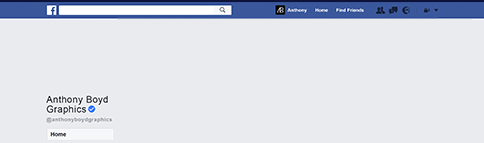
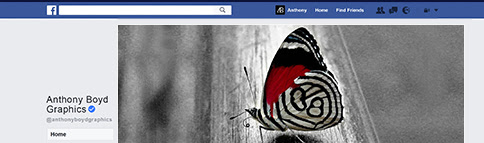
Push

diff --git a/style.css b/style.css
@@ -88,7 +88,7 @@ h1.f_brand_name {
 /*css page 3 start*/
 .p3_primary{
     padding-left: 85px !important;
-    padding-top: 25px;
+    padding-top: 80px;
 }
 .p3_silder_heading {
     font-size: 16px;
@@ -112,8 +112,8 @@ h1.f_brand_name {
 }
 .p3_logo img {
     margin-top: 10px;
-    max-width: 111px;
-    max-height: 80px;
+    max-width: 160px;
+    max-height: 115px;
 }
 .p3_logo {
     text-align: center;
@@ -451,8 +451,8 @@ p.numeric_letter {
     text-align: center;
 }
 .logo_nav img {
-    max-width: 56px;
-    max-height: 40px;
+    max-width: 95px;
+    max-height: 68px;
     display: flex;
     flex-flow: column;
     justify-content: center;
@@ -528,8 +528,8 @@ img.logo_footer {
     font-size: 15px;
 }
 .p16_profile_image img {
-    max-width: 94px;
-    max-height: 68px;
+    max-width: 150px;
+    max-height: 108px;
     display: flex;
     flex-flow: column;
     justify-content: center;
@@ -571,7 +571,6 @@ img.logo_footer {
 
 /*css page 18 start*/
 .p18_silder_heading {
-    padding-top: 70px;
     padding-left: 25px;
     font-size: 15px;
     font-weight: 600;
@@ -580,6 +579,7 @@ img.logo_footer {
 .p18_cover_silder {
     position: relative;
     width: 93%;
+    margin-bottom: 30px;
     float: left;
     padding-left: 25px;
     padding-right: 25px;
@@ -603,8 +603,8 @@ img.logo_footer {
     height: auto;
 }
 .p18_instagram .p18_instagram_bg {
-    width: 100%;
-    max-height: 350px;
+    width: auto;
+    height: 450px;
 }
 .p18_facebook_logo {
     background: #fff !important;
@@ -621,8 +621,8 @@ img.logo_footer {
     align-items: center;
 }
 .p18_facebook_logo img{
-    max-width: 50px;
-    max-height: 36px;
+    max-width: 80px;
+    max-height: 64px;
     display: flex;
     flex-flow: column;
     justify-content: center;
@@ -631,6 +631,7 @@ img.logo_footer {
 
 .p18_facebook_cover_logo {
     position: absolute;
+    background: transparent !important;
     top: 13%;
     height: 168px;
     width: 498px;
@@ -643,14 +644,16 @@ img.logo_footer {
     align-items: center;
 }
 .p18_facebook_cover_logo img {
+    display: none;
     max-width: 125px;
     max-height: 90px;
-    display: flex;
+    /* display: flex; */
     flex-flow: column;
     justify-content: center;
     align-items: center;
 }
 .p18_twitter_logo {
+    background: transparent !important;
     position: absolute;
     top: 9%;
     height: 170px;
@@ -663,9 +666,10 @@ img.logo_footer {
     align-items: center;
 }
 .p18_twitter_logo img {
+    display:  none;
     max-width: 140px;
     max-height: 101px;
-    display: flex;
+    /* display: flex; */
     flex-flow: column;
     justify-content: center;
     align-items: center;
@@ -686,20 +690,20 @@ img.logo_footer {
     align-items: center;
 }
 .p18_twitter_dp_logo img {
-    max-width: 56px;
-    max-height: 40px;
+    max-width: 69px;
+    max-height: 54px;
     display: flex;
     flex-flow: column;
     justify-content: center;
     align-items: center;
 }
 .p18_instagram_logo {
-    background: #fff !important;
+    background: transparent !important;
     position: absolute;
-    width: 150px;
-    height: 150px;
-    top: 40%;
-    left: 7%;
+    width: 110px;
+    height: 110px;
+    top: 15%;
+    left: 3%;
     text-align: center;
     border-radius: 50%;
     display: flex;
@@ -708,8 +712,8 @@ img.logo_footer {
     align-items: center;
 }
 .p18_instagram_logo img {
-    max-width: 110px;
-    max-height: 79px;
+    max-width: 100px;
+    max-height: 72px;
     display: flex;
     flex-flow: column;
     justify-content: center;
@@ -1002,10 +1006,10 @@ img.logo_footer {
     height: auto;
 }
 .tshirt_logo {
-    top: 30%;
+    top: 26%;
     position: absolute;
     text-align: center;
-    height: 150px;
+    height: 120px;
     width: 150px;
     left: 39%;
     display: flex;
@@ -1015,8 +1019,8 @@ img.logo_footer {
     right: 0;
 }
 .tshirt_logo img {
-    max-width: 81px;
-    max-height: 58px;
+    max-width: 120px;
+    max-height: 86px;
     display: flex;
     flex-flow: column;
     justify-content: center;
@@ -1037,8 +1041,8 @@ img.logo_footer {
     align-items: center;
 }
 .cap_logo img {
-    max-width: 81px;
-    max-height: 58px;
+    max-width: 139px;
+    max-height: 100px;
     display: flex;
     flex-flow: column;
     justify-content: center;
@@ -1059,8 +1063,8 @@ img.logo_footer {
     align-items: center;
 }
 .mug_logo img {
-    max-width: 110px;
-    max-height: 79px;
+    max-width: 160px;
+    max-height: 115px;
     display: flex;
     flex-flow: column;
     justify-content: center;
@@ -1070,7 +1074,7 @@ img.logo_footer {
 .vehicle_logo {
     position: absolute;
     text-align: center;
-    height: 110px;
+    height: 120px;
     width: 340px;
     top: 64px;
     right: 0;
@@ -1081,8 +1085,8 @@ img.logo_footer {
     align-items: center;
 }
 .vehicle_logo img {
-    max-width: 97px;
-    max-height: 70px;
+    max-width: 120px;
+    max-height: 86px;
     display: flex;
     flex-flow: column;
     justify-content: center;

diff --git a/index.php b/index.php
@@ -212,7 +212,7 @@
         <div class="page_detail_nav">
           <div class="page_detail_nav_border"></div>
           <div class="primary-text-color page_detail_presentation_design">
-            Corporate Design and variation
+            Corporate Design and Variations
           </div>
           <div class="primary-text-color page_detail_presentation_design_detail">
             The Corporate logo should be used at all times.
@@ -318,11 +318,10 @@
         <div class="page_detail_nav">
           <div class="page_detail_nav_border"></div>
           <div class="primary-text-color page_detail_presentation_design">
-            Logo <br>
-            Variations
+            Logo With Background
           </div>
           <div class="primary-text-color page_detail_presentation_design_detail">
-            The Logo may include the brand's tagline, "Wall Street Deals for Main Street Investors" .
+            The logo may be placed on solid brand colored backgrounds. On light backgrounds, The primary logo should be used. On the backgrounds, the logo should be reversed to white. 
           </div>
         </div>
         <div class="page_detail_nav_boby">
@@ -589,7 +588,7 @@
           </div>
 
           <!-- Background Colors -->
-          <p class="p11_silder_heading primary-text-color">Background Color 3</p>
+          <p class="p11_silder_heading primary-text-color">Inner Pages</p>
           <div class="p11_cover_silder p11_margin_0">
             <div class="p11_cover_silder_logo primary-color">
               <div class="p11_logo_background_image">
@@ -905,13 +904,24 @@
             </div>
           </div>
 
+          <p class="p18_silder_heading primary-text-color">Twitter</p>
+          <div class="p18_cover_silder p18_twitter">
+            <img src="image/social-media/twitter.png" class="p18_twitter_bg" alt="">
+            <div class="p18_twitter_logo primary-color">
+              <img src="image/bg-logo/<?php echo $logo_result['primary_logo_white'] ?>" class="">
+            </div>
+            <div class="p18_twitter_dp_logo primary-color">
+              <img src="image/bg-logo/<?php echo $logo_result['primary_logo_file'] ?>" class="">
+            </div>
+          </div>
+          
         </div>
       </div>
     </div>
     <!-- page 18 end -->
 
     <!-- page 18 Second Page start -->
-    <div class="page page_detail primary-color" id="page18_2">
+    <!-- <div class="page page_detail primary-color" id="page18_2">
       <div class="page_detail_top_heading">
         <span class="page_detail_logo_image">
           <img src="image/main-logo/logo.png">
@@ -946,7 +956,7 @@
           
         </div>
       </div>
-    </div>
+    </div> -->
     <!-- page 18 end -->
 
       <!-- page 18 Second Page start -->
